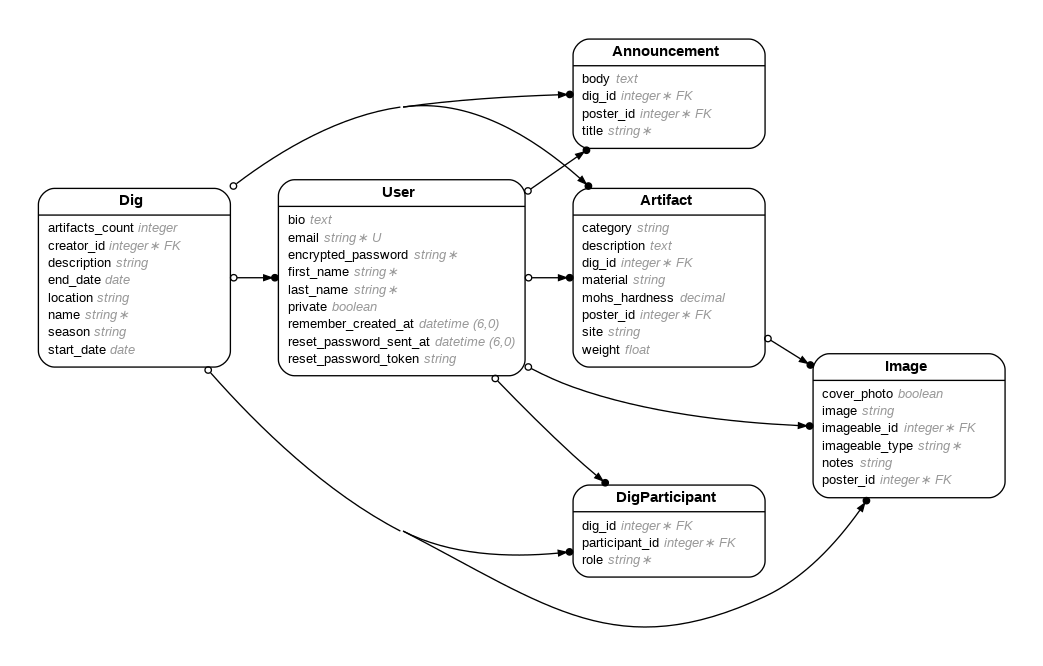
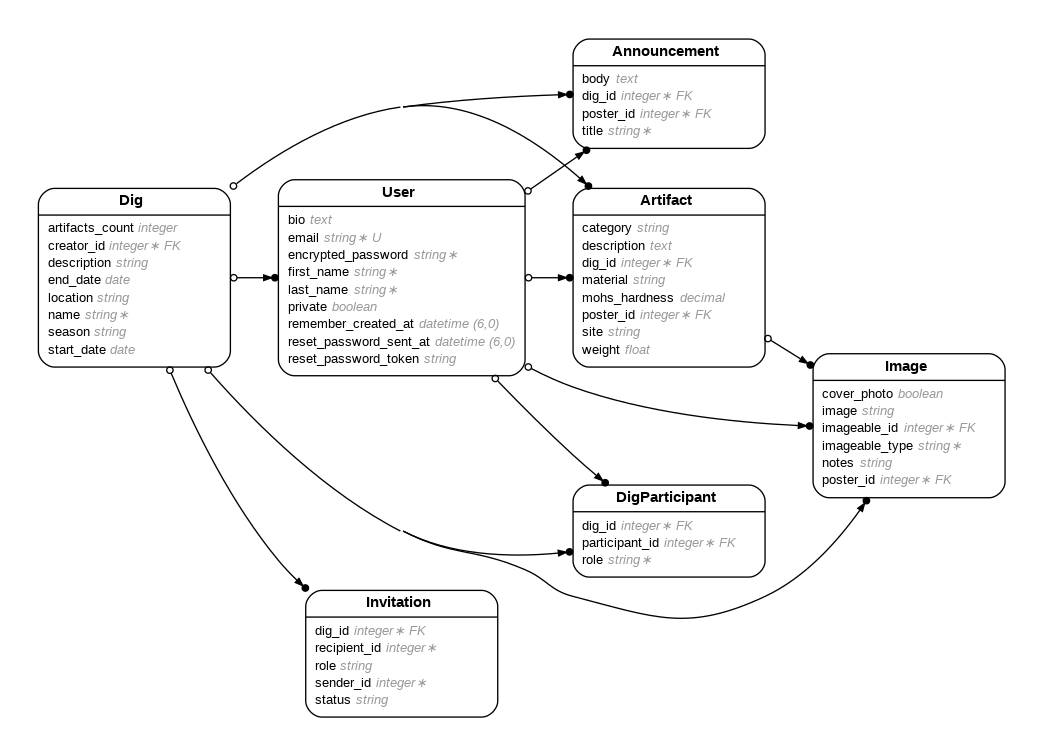
Scaffold and associations for invitation

diff --git a/app/controllers/invitations_controller.rb b/app/controllers/invitations_controller.rb
@@ -1,0 +1,70 @@
+class InvitationsController < ApplicationController
+  before_action :set_invitation, only: %i[ show edit update destroy ]
+
+  # GET /invitations or /invitations.json
+  def index
+    @invitations = Invitation.all
+  end
+
+  # GET /invitations/1 or /invitations/1.json
+  def show
+  end
+
+  # GET /invitations/new
+  def new
+    @invitation = Invitation.new
+  end
+
+  # GET /invitations/1/edit
+  def edit
+  end
+
+  # POST /invitations or /invitations.json
+  def create
+    @invitation = Invitation.new(invitation_params)
+
+    respond_to do |format|
+      if @invitation.save
+        format.html { redirect_to invitation_url(@invitation), notice: "Invitation was successfully created." }
+        format.json { render :show, status: :created, location: @invitation }
+      else
+        format.html { render :new, status: :unprocessable_entity }
+        format.json { render json: @invitation.errors, status: :unprocessable_entity }
+      end
+    end
+  end
+
+  # PATCH/PUT /invitations/1 or /invitations/1.json
+  def update
+    respond_to do |format|
+      if @invitation.update(invitation_params)
+        format.html { redirect_to invitation_url(@invitation), notice: "Invitation was successfully updated." }
+        format.json { render :show, status: :ok, location: @invitation }
+      else
+        format.html { render :edit, status: :unprocessable_entity }
+        format.json { render json: @invitation.errors, status: :unprocessable_entity }
+      end
+    end
+  end
+
+  # DELETE /invitations/1 or /invitations/1.json
+  def destroy
+    @invitation.destroy
+
+    respond_to do |format|
+      format.html { redirect_to invitations_url, notice: "Invitation was successfully destroyed." }
+      format.json { head :no_content }
+    end
+  end
+
+  private
+    # Use callbacks to share common setup or constraints between actions.
+    def set_invitation
+      @invitation = Invitation.find(params[:id])
+    end
+
+    # Only allow a list of trusted parameters through.
+    def invitation_params
+      params.require(:invitation).permit(:role, :status, :dig_id, :sender_id, :recipient_id)
+    end
+end

diff --git a/db/schema.rb b/db/schema.rb
@@ -10,7 +10,7 @@
 #
 # It's strongly recommended that you check this file into your version control system.
 
-ActiveRecord::Schema[7.0].define(version: 2023_11_19_184412) do
+ActiveRecord::Schema[7.0].define(version: 2023_11_22_201658) do
   create_table "announcements", force: :cascade do |t|
     t.string "title"
     t.text "body"
@@ -75,6 +75,19 @@ ActiveRecord::Schema[7.0].define(version: 2023_11_19_184412) do
     t.index ["poster_id"], name: "index_images_on_poster_id"
   end
 
+  create_table "invitations", force: :cascade do |t|
+    t.string "role"
+    t.string "status"
+    t.integer "dig_id", null: false
+    t.integer "sender_id", null: false
+    t.integer "recipient_id", null: false
+    t.datetime "created_at", null: false
+    t.datetime "updated_at", null: false
+    t.index ["dig_id"], name: "index_invitations_on_dig_id"
+    t.index ["recipient_id"], name: "index_invitations_on_recipient_id"
+    t.index ["sender_id"], name: "index_invitations_on_sender_id"
+  end
+
   create_table "users", force: :cascade do |t|
     t.string "email", default: "", null: false
     t.string "encrypted_password", default: "", null: false
@@ -99,4 +112,7 @@ ActiveRecord::Schema[7.0].define(version: 2023_11_19_184412) do
   add_foreign_key "dig_participants", "users", column: "participant_id"
   add_foreign_key "digs", "users", column: "creator_id"
   add_foreign_key "images", "users", column: "poster_id"
+  add_foreign_key "invitations", "digs"
+  add_foreign_key "invitations", "users", column: "recipient_id"
+  add_foreign_key "invitations", "users", column: "sender_id"
 end

diff --git a/app/models/invitation.rb b/app/models/invitation.rb
@@ -1,0 +1,30 @@
+# == Schema Information
+#
+# Table name: invitations
+#
+#  id           :integer          not null, primary key
+#  role         :string
+#  status       :string
+#  created_at   :datetime         not null
+#  updated_at   :datetime         not null
+#  dig_id       :integer          not null
+#  recipient_id :integer          not null
+#  sender_id    :integer          not null
+#
+# Indexes
+#
+#  index_invitations_on_dig_id        (dig_id)
+#  index_invitations_on_recipient_id  (recipient_id)
+#  index_invitations_on_sender_id     (sender_id)
+#
+# Foreign Keys
+#
+#  dig_id        (dig_id => digs.id)
+#  recipient_id  (recipient_id => users.id)
+#  sender_id     (sender_id => users.id)
+#
+class Invitation < ApplicationRecord
+  belongs_to :dig
+  belongs_to :sender
+  belongs_to :recipient
+end

diff --git a/app/models/user.rb b/app/models/user.rb
@@ -27,6 +27,10 @@ class User < ApplicationRecord
          :recoverable, :rememberable, :validatable
   has_many :created_digs, class_name: "Dig", foreign_key: "creator_id"
   has_many :created_artifacts, class_name: "Artifact", foreign_key: "poster_id"
+
+  has_many :sent_invitations, class_name: "Invitation", foreign_key: "sender_id"
+  has_many :received_invitations, class_name: "Invitation", foreign_key: "recipient_id"
+
   has_many :dig_participants, foreign_key: "participant_id"
   has_many :digs, through: :dig_participants
 

diff --git a/db/migrate/20231122201658_create_invitations.rb b/db/migrate/20231122201658_create_invitations.rb
@@ -1,0 +1,13 @@
+class CreateInvitations < ActiveRecord::Migration[7.0]
+  def change
+    create_table :invitations do |t|
+      t.string :role
+      t.string :status
+      t.references :dig, null: false, foreign_key: true
+      t.references :sender, null: false, foreign_key: { to_table: :users}
+      t.references :recipient, null: false, foreign_key: { to_table: :users}
+
+      t.timestamps
+    end
+  end
+end

diff --git a/app/models/dig.rb b/app/models/dig.rb
@@ -25,6 +25,8 @@
 class Dig < ApplicationRecord
   belongs_to :creator, class_name: "User"
 
+  has_many :invitations, dependent: :destroy
+
   has_many :dig_participants, dependent: :destroy
   has_many :users, through: :dig_participants, source: :participant, dependent: :destroy
   has_many :leads, -> { leads }, class_name: "DigParticipant", dependent: :destroy

diff --git a/config/routes.rb b/config/routes.rb
@@ -1,4 +1,5 @@
 Rails.application.routes.draw do
+  resources :invitations
   get 'info/about'
 
   resources :digs do
